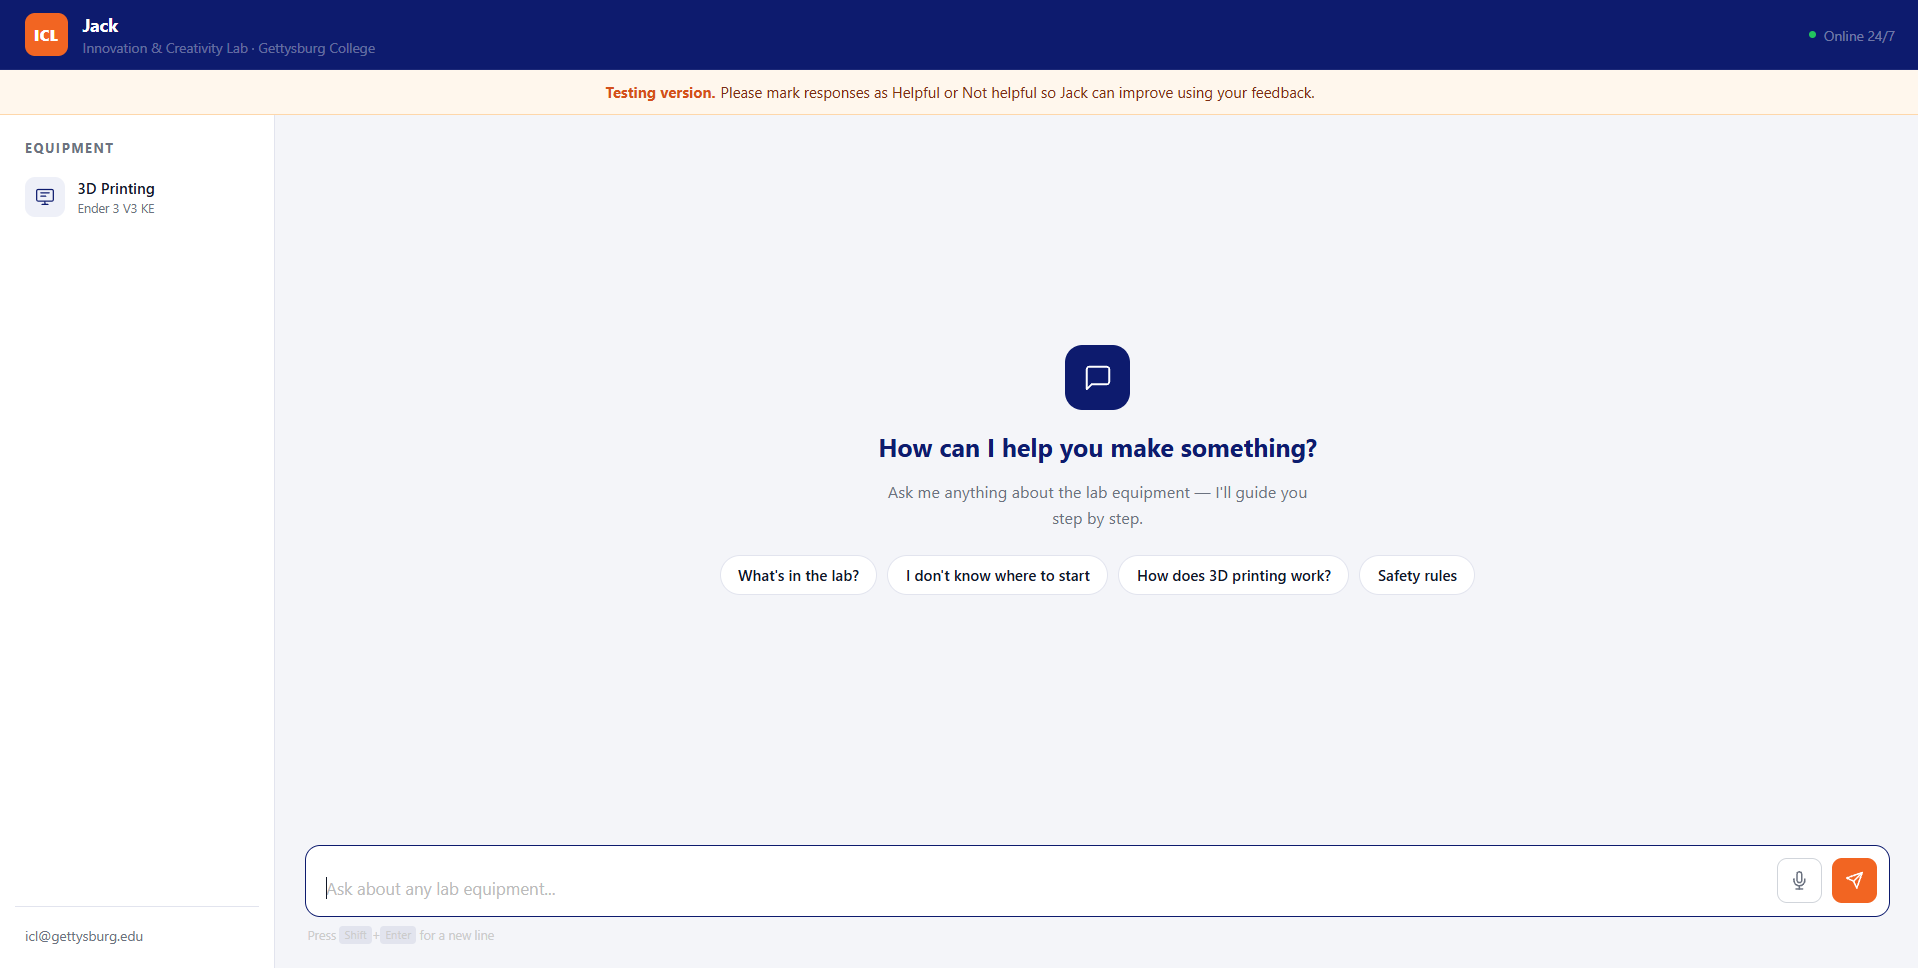
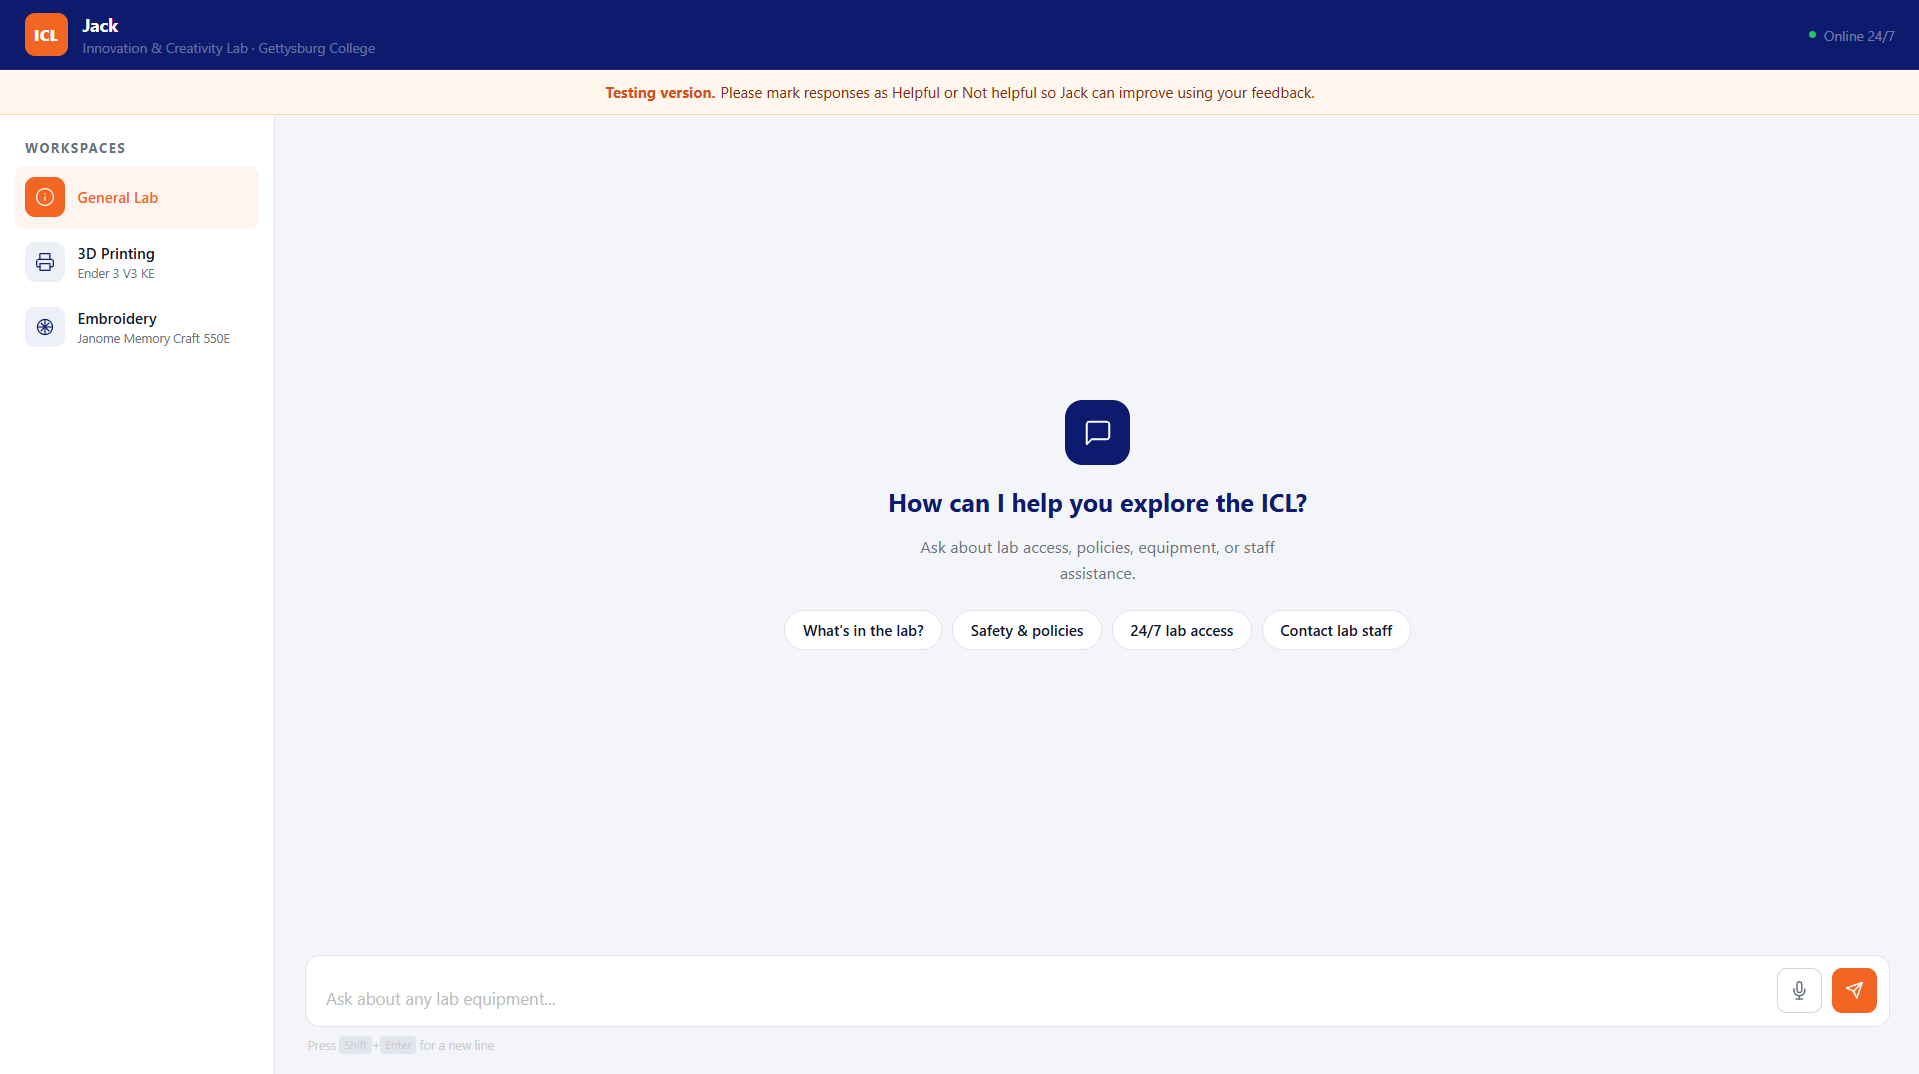
Update README demo with current UI screenshots
- Replace the three demo images with the updated interface
- Add embroidery workspace and inline diagram screenshots
- Expand the demo section to five images across two rows

diff --git a/README.md b/README.md
@@ -22,11 +22,17 @@ It is named after Clarence B. "Jack" Rogers Jr. (Class of 1951), the Gettysburg 
 
 ## Demo
 
-| Ask in plain English | Choose how to be guided | Follow real lab steps, with video |
-|:---:|:---:|:---:|
-| ![Jack home screen](docs/demo-1-home.png) | ![Guide-mode selection](docs/demo-2-guide.png) | ![Step-by-step with inline video](docs/demo-3-steps.png) |
+Jack organizes the lab into workspaces — a universal **General Lab** plus a focused tab per machine — and turns a plain-English question into real lab steps with inline photos, videos, and diagrams.
 
-A vague request (*"i dont know how to 3d print"*) is caught by intent classification, branched into a guided walkthrough, and answered one step at a time — with photos and videos of the actual ICL equipment rendered inline.
+| Explore the lab | Choose how to be guided | Follow steps, with video |
+|:---:|:---:|:---:|
+| ![Jack home screen with workspaces](docs/demo-1-home.png) | ![Full Guide vs Step by Step selector](docs/demo-2-guide.png) | ![Step one with an inline how-to video](docs/demo-3-steps.png) |
+
+| Dedicated Embroidery workspace | High-resolution machine diagrams |
+|:---:|:---:|
+| ![Embroidery hooping walkthrough](docs/demo-4-embroidery.png) | ![Inline embroidery hooping diagram](docs/demo-5-diagram.png) |
+
+A vague request (*"i dont know how to 3d print"*) is caught by intent classification, branched into a guided walkthrough, and answered one step at a time. Each machine has its own focused workspace, and answers render the actual ICL equipment — videos, photos, and manual diagrams — inline where the step needs them.
 
 ---
 
